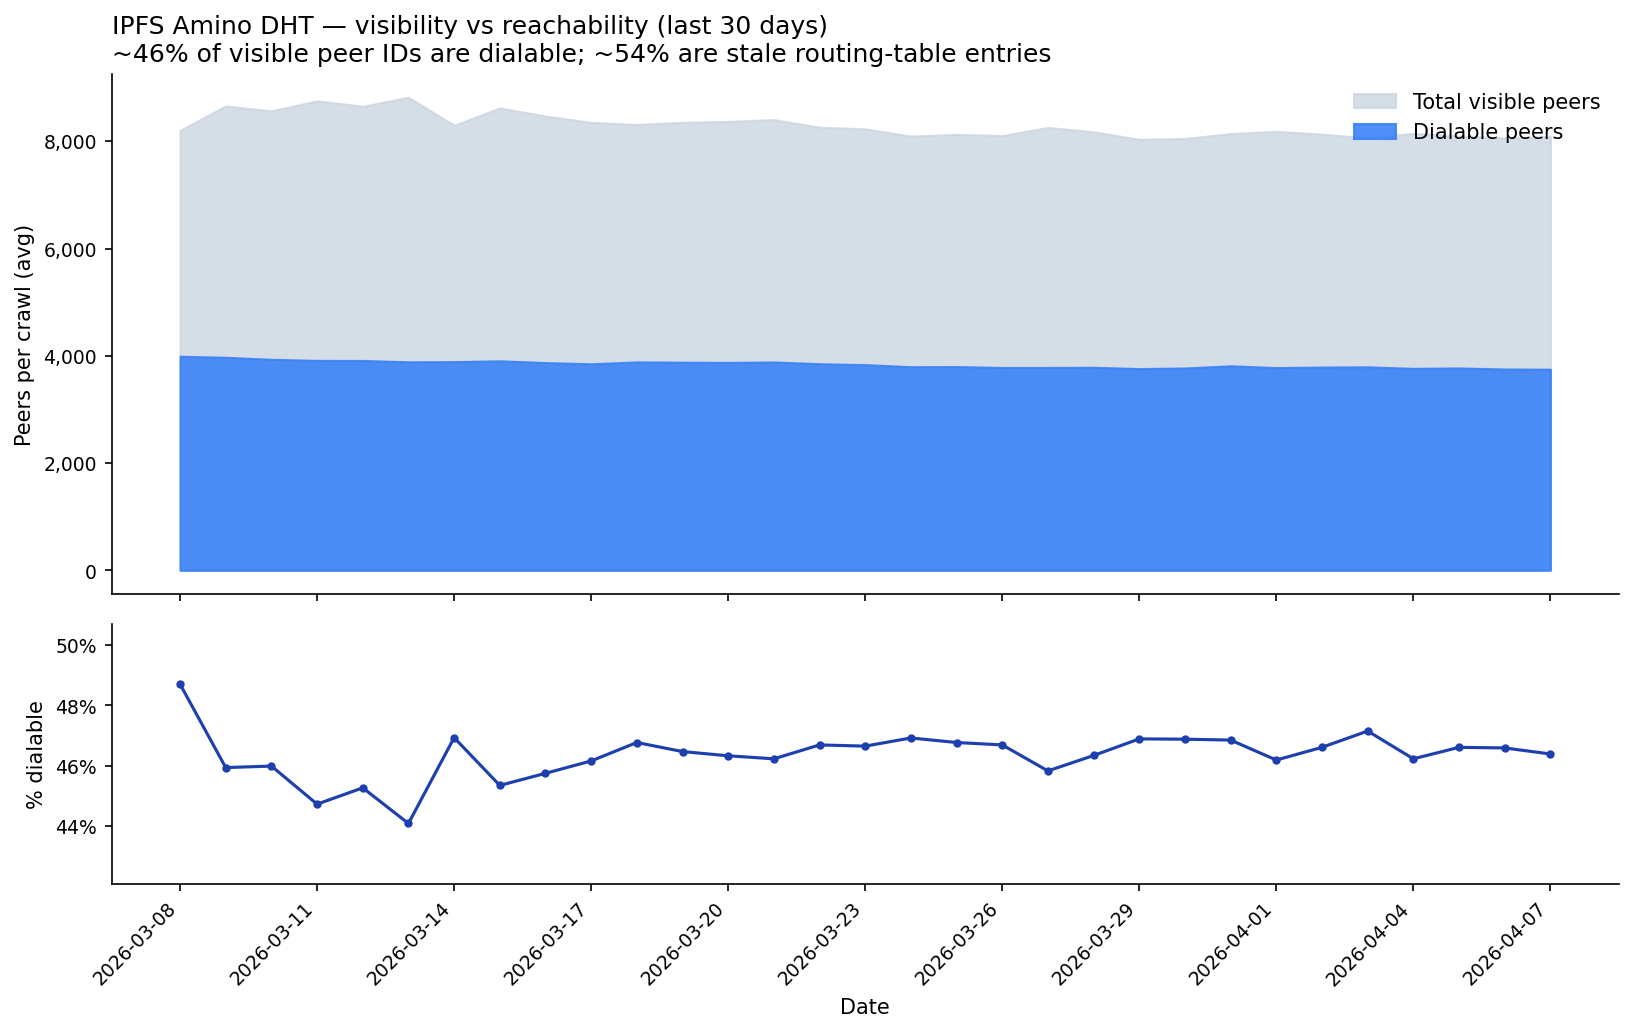
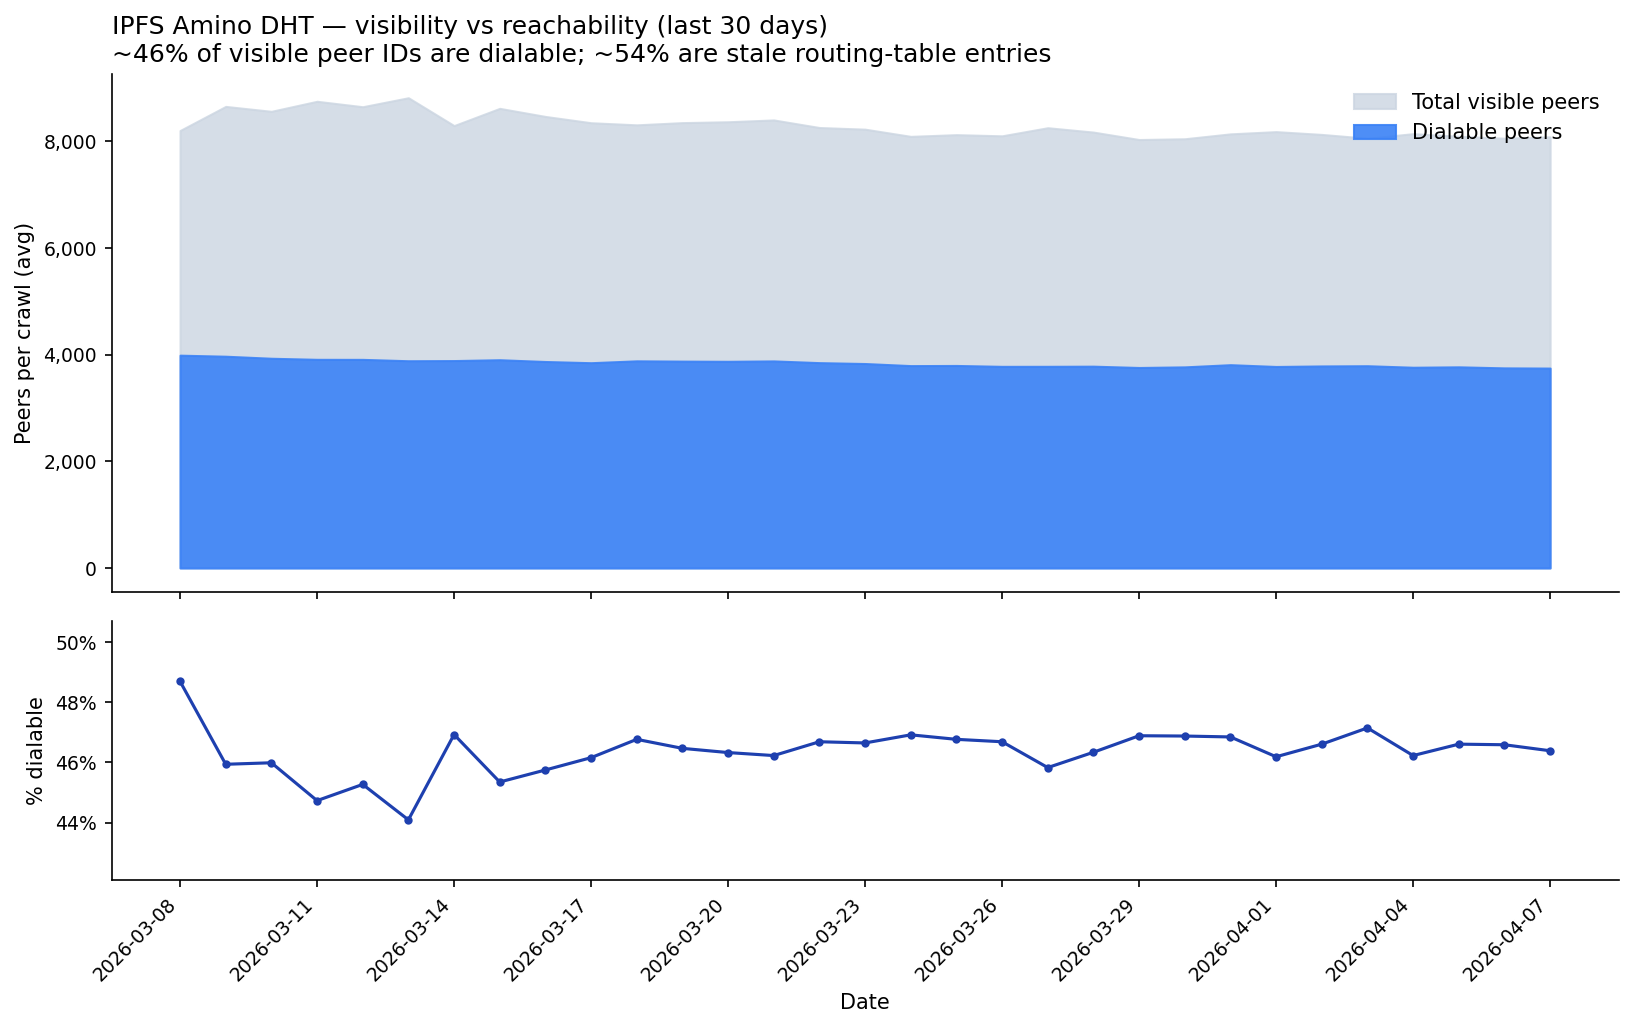
docs(nebula): drop redundant charts 4 and 7, renumber figures 1-6
Remove figures 4 (kad-only oscillation per Kubo version) and 7 (joint
state stacked bar) — both are subsumed by other charts:

- Chart 4 (04_oscillation.png) is the kad-only metric. Chart 5
  (06_oscillation_refined.png) shows the same data side-by-side with
  the AutoNAT-driven refinement, so chart 5 carries strictly more
  information.

- Chart 7 (07_joint_state.png) showed dialability x kad-pattern as a
  3x4 stacked bar chart. Chart 6 (08_dialability_vs_public.png)
  shows the same per-peer joint distribution at finer 11x11 decile
  resolution as a heatmap, so chart 6 strictly subsumes chart 7.

After the cleanup, the report has 6 figures total mapped to:
- Figure 1: 05_dialable_over_time.png
- Figure 2: 01_clients.png
- Figure 3: 02_autonat_protocols.png
- Figure 4: 03_server_mode.png
- Figure 5: 06_oscillation_refined.png
- Figure 6: 08_dialability_vs_public.png

Update plot.py to remove the chart_oscillation and chart_joint_state
functions. Update doc captions to use the new figure numbers and
update the in-text "Figure 8" reference to "Figure 6". Remove the
chart 04 and chart 07 entries from the data sources appendix.

(matplotlib re-rendered the remaining PNGs with byte-level differences
even though the content is unchanged — that explains the noise in
the diff.)

diff --git a/results/nebula-analysis/plot.py b/results/nebula-analysis/plot.py
@@ -10,18 +10,19 @@ dataset. The source table for each chart is:
   01_clients.csv               nebula_ipfs_amino.visits  (latest crawl)
   02_autonat_protocols.csv     nebula_ipfs_amino.visits  (latest crawl, kubo)
   03_server_mode.csv           nebula_ipfs_amino.visits  (latest crawl, kubo)
-  04_oscillation.csv           nebula_ipfs_amino_silver.peer_logs_protocols
-                               JOIN peer_logs_agent_version  (last 7 days)
   05_dialable_over_time.csv    nebula_ipfs_amino.crawls  (last 30 days)
   06_oscillation_refined.csv   nebula_ipfs_amino_silver.peer_logs_protocols
                                JOIN peer_logs_agent_version  (last 7 days)
                                kad-only vs AutoNAT-driven (kad+autonat v1) by version
-  07_joint_state.csv           nebula_ipfs_amino.visits
-                               JOIN nebula_ipfs_amino_silver.peer_logs_protocols
-                               joint state (dialability × kad pattern) for Kubo peers
   08_dialability_vs_public.csv nebula_ipfs_amino.visits
                                JOIN nebula_ipfs_amino_silver.peer_logs_protocols
                                2D distribution: dialability fraction × Public-state fraction
+
+Note: 04_oscillation.csv and 07_joint_state.csv are no longer plotted.
+04 was superseded by 06 (same data, finer resolution).
+07 was superseded by 08 (same data, finer resolution).
+The CSVs are still generated by the queries documented in
+docs/nebula-autonat-analysis.md but the chart functions have been removed.
 
 Full query text and column documentation are in
 docs/nebula-autonat-analysis.md
@@ -165,56 +166,6 @@ def chart_server_mode():
 
 
 # ----------------------------------------------------------------------
-# Chart 4: Oscillation rate by Kubo version
-# ----------------------------------------------------------------------
-def chart_oscillation():
-    rows = read_csv("04_oscillation.csv")
-    versions = [r["version"] for r in rows]
-    pct = [float(r["pct"]) for r in rows]
-    totals = [int(r["total"]) for r in rows]
-
-    # Color: pre-v2 grey, post-v2 red
-    pre_v2 = {"0.1x", "0.2x", "0.30", "0.31", "0.32", "0.33"}
-    colors = ["#94a3b8" if v in pre_v2 else "#ef4444" for v in versions]
-
-    fig, ax = plt.subplots(figsize=(11, 6))
-    bars = ax.bar(versions, pct, color=colors, edgecolor="#1f2937", linewidth=0.6)
-
-    # v2 introduction marker
-    if "0.34" in versions:
-        idx = versions.index("0.34")
-        ax.axvline(idx - 0.5, color="#1f2937", linestyle="--", linewidth=1.2,
-                   label="v2 introduced (Kubo 0.34, May 2024)")
-
-    ax.set_ylabel("% of stable peers exhibiting kad protocol toggling")
-    ax.set_xlabel("Kubo version")
-    ax.yaxis.set_major_formatter(mtick.PercentFormatter(decimals=0))
-    ax.set_title("AutoNAT v1 oscillation in production: kad protocol toggle rate\n"
-                 "Observed over 7 days; v2 versions show ~3x higher oscillation than v1-only versions",
-                 loc="left")
-
-    for bar, p, t in zip(bars, pct, totals):
-        ax.text(bar.get_x() + bar.get_width() / 2, bar.get_height() + 0.15,
-                f"{p:.1f}%\nn={t}", ha="center", fontsize=8)
-
-    # Legend
-    from matplotlib.patches import Patch
-    legend_handles = [
-        Patch(facecolor="#94a3b8", label="v1 only (Kubo < 0.34)"),
-        Patch(facecolor="#ef4444", label="v2 available (Kubo ≥ 0.34)"),
-    ]
-    ax.legend(handles=legend_handles + [
-        plt.Line2D([0], [0], color="#1f2937", linestyle="--", label="v2 introduced (Kubo 0.34)")
-    ], loc="upper left", frameon=False)
-
-    ax.set_ylim(0, max(pct) * 1.25)
-    fig.tight_layout()
-    fig.savefig(ROOT / "04_oscillation.png", dpi=150, bbox_inches="tight")
-    plt.close(fig)
-    print("wrote 04_oscillation.png")
-
-
-# ----------------------------------------------------------------------
 # Chart 5: Dialable rate over time
 # ----------------------------------------------------------------------
 def chart_dialable_over_time():
@@ -305,71 +256,8 @@ def chart_oscillation_refined():
 
 
 # ----------------------------------------------------------------------
-# Chart 7: Joint state — dialability × kad pattern × v2 advertised
-# ----------------------------------------------------------------------
-def chart_joint_state():
-    rows = read_csv("07_joint_state.csv")
-    # Sort by dial_state then kad_pattern
-    dial_order = ["always dialable", "flipping dialability", "never dialable"]
-    kad_order = [
-        "always kad on (Public)",
-        "kad toggles",
-        "always kad off (Private/Client mode)",
-        "no silver data",
-    ]
-
-    # Build a grid: rows = kad pattern, columns = dial state
-    data = {ks: {ds: (0, 0) for ds in dial_order} for ks in kad_order}
-    for row in rows:
-        ds = row["dial_state"]
-        kp = row["kad_pattern"]
-        peers = int(row["peers"])
-        v2 = int(row["with_v2"])
-        if ds in dial_order and kp in kad_order:
-            data[kp][ds] = (peers, v2)
-
-    fig, ax = plt.subplots(figsize=(11, 7))
-
-    ncols = len(dial_order)
-    nrows = len(kad_order)
-    bar_w = 0.35
-    x = list(range(ncols))
-
-    # Stacked: total peers (light), v2-advertising subset (dark)
-    for row_idx, kp in enumerate(kad_order):
-        totals = [data[kp][ds][0] for ds in dial_order]
-        v2s = [data[kp][ds][1] for ds in dial_order]
-        offset = (row_idx - (nrows - 1) / 2) * bar_w
-        xs = [xi + offset for xi in x]
-        ax.bar(xs, totals, bar_w * 0.9, label=kp, color=["#94a3b8", "#ef4444", "#f59e0b", "#e5e7eb"][row_idx])
-        # Dark overlay for v2-advertising subset
-        ax.bar(xs, v2s, bar_w * 0.9, color="black", alpha=0.35)
-        # Label peers above each bar
-        for xi, t, v in zip(xs, totals, v2s):
-            if t > 0:
-                label = f"{t}"
-                if v > 0:
-                    label += f"\n({v} v2)"
-                ax.text(xi, t + 30, label, ha="center", fontsize=7)
-
-    ax.set_xticks(x)
-    ax.set_xticklabels(dial_order)
-    ax.set_xlabel("Dialability in the 7-day window")
-    ax.set_ylabel("Number of Kubo peers")
-    ax.set_title("Kubo peer joint state: dialability × kad protocol pattern\n"
-                 "Dark overlay = subset also advertising AutoNAT v2 server",
-                 loc="left")
-    ax.legend(loc="upper right", frameon=False, fontsize=8, title="kad protocol pattern")
-    ax.yaxis.set_major_formatter(mtick.FuncFormatter(lambda x, _: f"{int(x):,}"))
-
-    fig.tight_layout()
-    fig.savefig(ROOT / "07_joint_state.png", dpi=150, bbox_inches="tight")
-    plt.close(fig)
-    print("wrote 07_joint_state.png")
-
-
-# ----------------------------------------------------------------------
-# Chart 8: 2D heatmap — dialability fraction × Public-state fraction
+# Chart 6: 2D heatmap — dialability fraction × Public-state fraction
+# (was previously chart 8; chart 4 and chart 7 removed as redundant)
 # ----------------------------------------------------------------------
 def chart_dialability_vs_public():
     rows = read_csv("08_dialability_vs_public.csv")
@@ -434,9 +322,7 @@ if __name__ == "__main__":
     chart_clients()
     chart_autonat_protocols()
     chart_server_mode()
-    chart_oscillation()
     chart_dialable_over_time()
     chart_oscillation_refined()
-    chart_joint_state()
     chart_dialability_vs_public()
     print("\nDone. Charts in", ROOT)

diff --git a/docs/nebula-autonat-analysis.md b/docs/nebula-autonat-analysis.md
@@ -456,17 +456,7 @@ where v2 was never deployed, (b) a controlled deployment experiment, or
 (c) a fork of Kubo that wires v2 into `EvtLocalReachabilityChanged` and
 shows reduced oscillation in production.
 
-![Toggling rate by Kubo version](../results/nebula-analysis/04_oscillation.png)
-*Figure 5: Percentage of observed Kubo peers (in the last 7 days) whose
-protocol set toggled to/from including `/ipfs/kad/1.0.0`. Source:
-`nebula_ipfs_amino_silver.peer_logs_protocols` joined to
-`peer_logs_agent_version`. **Implicitly excludes peers that were undialable
-throughout the 7-day window**: the silver `peer_logs_*` tables only insert
-rows when a peer's state is observed via Identify, which requires a
-successful connection. A peer that was never successfully Identified in
-the 7-day window has no rows and is not counted. The vertical line marks
-Kubo 0.34, the version that introduced AutoNAT v2 as an opt-in feature.
-Smaller buckets have larger uncertainty.*
+See Figure 5 below (in Finding F) for the per-version visualization.
 
 ### Finding G: Most observed Kubo flips go to Private, not Unknown — and the peers are demonstrably dialable while Private
 
@@ -846,14 +836,16 @@ What the data does **not** show:
   count transitions, only presence-of-both-states.
 
 ![Refined: kad toggling vs AutoNAT-driven flip rate by Kubo version](../results/nebula-analysis/06_oscillation_refined.png)
-*Figure 6: Kad toggling (grey) vs AutoNAT-driven flips (red) per Kubo
+*Figure 5: Kad toggling (grey) vs AutoNAT-driven flips (red) per Kubo
 version. AutoNAT-driven flips are peers that have both a Public
 (`kad on AND autonat-v1-server on`) state and a non-Public
 (`kad off AND autonat-v1-server on/off`) state in the 7-day window.
 Source: `nebula_ipfs_amino_silver.peer_logs_protocols` joined to
 `peer_logs_agent_version`. The two bars are nearly identical for most
 versions, indicating the kad toggling is dominantly explained by the
-AutoNAT Public ↔ non-Public state-change pattern.*
+AutoNAT Public ↔ non-Public state-change pattern. The grey bars
+represent the looser kad-only metric from Finding E; the red bars
+are the AutoNAT-driven refinement from Finding F.*
 
 ### Finding I: Joint state — dialability × kad pattern × AutoNAT v2 support (the main production view)
 
@@ -945,14 +937,8 @@ Additionally, the "not found" dimension:
    Note that 22 of these also advertise v2 — they run v2 server but
    disable DHT server mode.
 
-![Kubo joint state: dialability × kad pattern × v2](../results/nebula-analysis/07_joint_state.png)
-*Figure 7: Per-peer joint state of Kubo peers visited in the last
-7 days. Horizontal axis groups peers by dialability pattern;
-colored bars stack the kad protocol patterns within each group. The
-dark overlay shows the subset of peers that also advertise
-`/libp2p/autonat/2/dial-request` at some point in the window.
-Sources: `nebula_ipfs_amino.visits` and
-`nebula_ipfs_amino_silver.peer_logs_protocols`.*
+For the visual continuum across dialability and Public-state at finer
+resolution, see Figure 6 in Finding J below.
 
 #### How to read these numbers
 
@@ -1342,7 +1328,7 @@ that are mostly undialable from Nebula's vantage point but, in the
 rare moments Nebula could identify them, were always observed in
 the Public state.
 
-The 2D distribution heatmap (Figure 8) shows the joint
+The 2D distribution heatmap (Figure 6) shows the joint
 distribution of dialability fraction (X-axis, 0%–100% in deciles)
 against Public-state fraction (Y-axis, 0%–100% in deciles), counting
 Kubo peers in each cell. The cells of interest:
@@ -1388,7 +1374,7 @@ points or instrumented Kubo logs. We document the cell exists and
 move on.
 
 ![Dialability × Public-state heatmap](../results/nebula-analysis/08_dialability_vs_public.png)
-*Figure 8: 2D distribution of Kubo peers by dialability fraction
+*Figure 6: 2D distribution of Kubo peers by dialability fraction
 (X-axis) and Public-state fraction (Y-axis) over the 7-day window.
 Both axes are deciles (0% to 100%). Cell value is the number of
 Kubo peers; color is the log10 of that count (lighter = fewer).
@@ -1400,7 +1386,9 @@ peers. The (100% dialable, anything less than 100% Public) cells
 within the dashed-line column are the strict-stable AutoNAT-flipping
 candidates from this finding (8 peers, mostly post-v2). The top-left
 corner shows 493 rarely-dialable but always-Public peers — the
-inverse-failure direction with its survivor-bias caveat.*
+inverse-failure direction with its survivor-bias caveat. The bottom-right
+shows 18 always-dialable but always-non-Public peers — likely
+explicit DHT-client-mode operators.*
 
 #### Summary of Finding J
 
@@ -1794,24 +1782,6 @@ details in `docs/future-work-nat-monitoring.md`).
   `protocols` (checked for `/ipfs/kad/1.0.0`)
 - **Caveat:** Snapshot only; does not reflect changes between crawls.
 
-#### `04_oscillation.png` — DHT kad protocol toggling rate by Kubo version
-
-- **Source tables:**
-  - `nebula_ipfs_amino_silver.peer_logs_protocols` (deduplicated change log
-    of protocol sets per peer; only inserts on change)
-  - `nebula_ipfs_amino_silver.peer_logs_agent_version` (agent version
-    history per peer)
-- **Filter:** `updated_at > now() - INTERVAL 7 DAY`, peers with
-  `>= 2` protocol log entries
-- **Method:** Per peer, count silver-table rows where `/ipfs/kad/1.0.0` is
-  in `protocols` and rows where it is not. A peer is "toggling" if both
-  states appear in the window. Joined to `peer_logs_agent_version` (taking
-  the latest known agent version per peer via `argMax(..., updated_at)`)
-  to bucket by Kubo version.
-- **Caveat:** The silver table only inserts on change, so peers with no
-  observed changes in the window are excluded by the `>= 2` filter. This
-  biases the population toward peers with at least some change activity.
-
 #### `05_dialable_over_time.png` — Dialable peer counts over 30 days
 
 - **Source table:** `nebula_ipfs_amino.crawls`
@@ -1844,24 +1814,6 @@ details in `docs/future-work-nat-monitoring.md`).
   cell (low dialability, always Public) is the inverse-failure
   direction.
 
-#### `07_joint_state.png` — Joint state (dialability × kad pattern × v2)
-
-- **Source tables:**
-  - `nebula_ipfs_amino.visits` (for dialability pattern)
-  - `nebula_ipfs_amino_silver.peer_logs_protocols` (for kad and v2
-    protocol patterns)
-- **Filter:** Visits and silver rows in the last 7 days. Restricted
-  to Kubo peers (`agent_version LIKE 'kubo/%'` from any visit).
-- **Method:** Per peer, classify dialability across visits, kad
-  protocol pattern across silver rows, and presence of
-  `/libp2p/autonat/2/dial-request` in any silver row. Cross-tabulate
-  and count peers in each joint cell.
-- **Why it matters:** This is the main per-peer view of the Kubo
-  population's AutoNAT state. The "always dialable + kad toggles"
-  cell (31 peers, ~0.66% of observed Kubo) is the tightest measurement
-  of AutoNAT v1 oscillation affecting stable peers — isolated from
-  restart and disconnect noise.
-
 #### `06_oscillation_refined.png` — kad-only vs AutoNAT-driven flip rate
 
 - **Source tables:**
@@ -1877,7 +1829,7 @@ details in `docs/future-work-nat-monitoring.md`).
   - **Inconsistent**: kad ON, autonat OFF (excluded; mostly non-Kubo)
   A peer is "AutoNAT-driven flipping" if it has at least one Public state
   and at least one non-Public state (Unknown or Private) in the window.
-  Compared side-by-side with the looser kad-only metric from chart 04.
+  Compared side-by-side with the looser kad-only metric (Finding E).
 - **What it shows:** For most Kubo versions the two metrics are
   identical, indicating the kad toggling we observed is dominantly the
   AutoNAT Public ↔ non-Public state-change pattern, not unrelated
